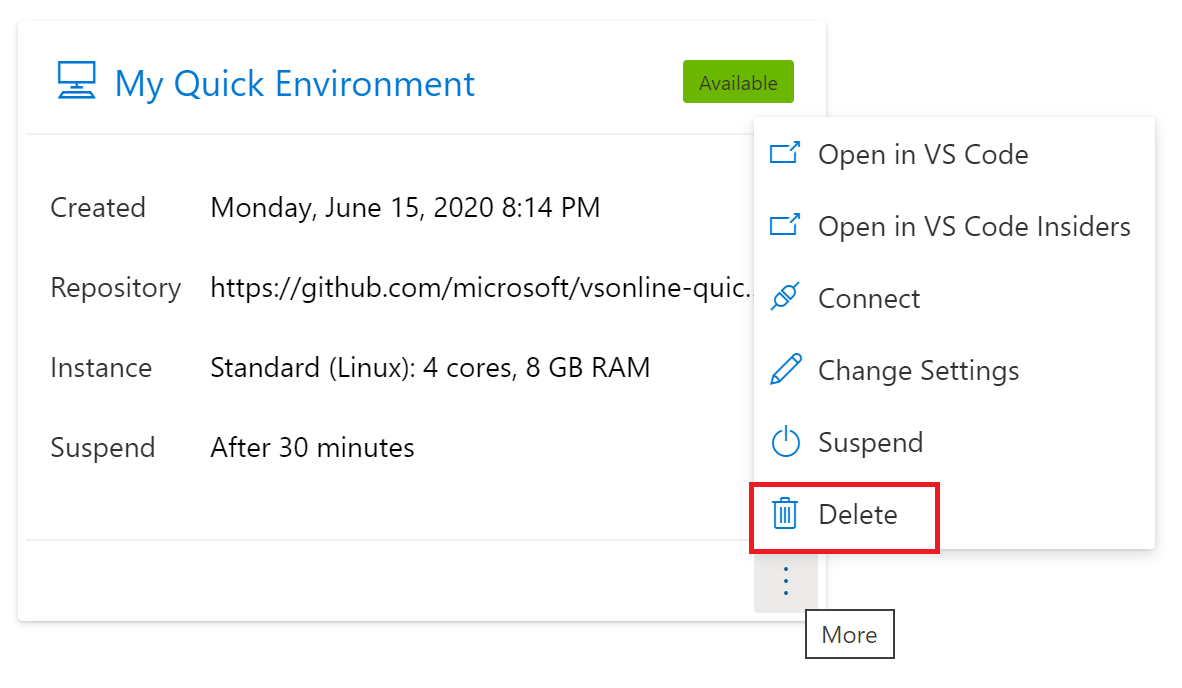
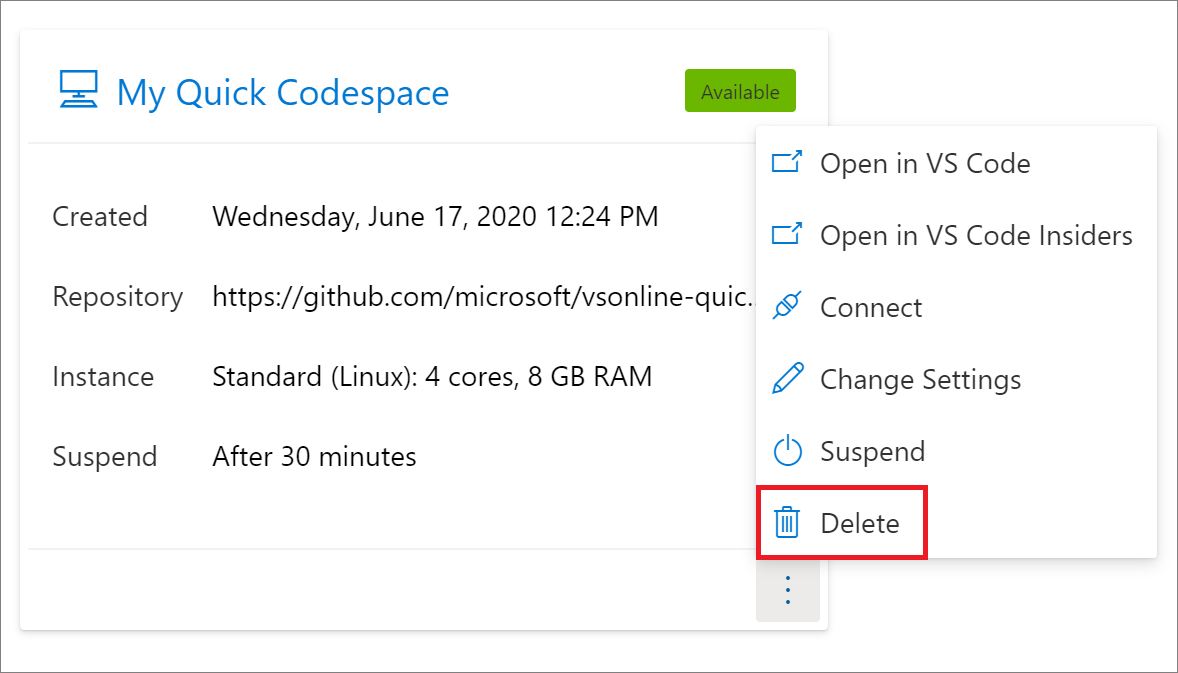
Update browser quickstart images

diff --git a/vscodespaces/quickstarts/browser.md b/vscodespaces/quickstarts/browser.md
@@ -45,6 +45,7 @@ And under **Advanced Options**, you can leave the automatically generated values
 
 - **Plan Name**: For example: "My-Codespaces-Plan"
 - **Resource Group**: Choose any existing Azure resource group you'd like. A new resource group will be created if an existing one isn't specified.
+- **Default Instance Type**: Choose the default Codespaces Instance Type, such as **Standard (Linux)**.
 
 Once a plan is created, it will be the selected plan in the **Plan Selector**.
 
@@ -57,7 +58,7 @@ To create a new cloud-hosted codespace, fill in the **Create Codespace** form. T
 
 Complete the form with the following values:
 
-- **Codespace Name**: My Quick Environment
+- **Codespace Name**: My Quick Codespace
 - **Git Repository**: microsoft/vsonline-quickstart
 - **Instance Type**: Standard (Linux)
 - **Suspend idle Codespace after...**: 30 minutes
@@ -69,7 +70,7 @@ Complete the form with the following values:
 
 Once you've filled in the form, select **Create**. This will begin creating your codespace and open the codespace in your browser when it is finished.
 
-If you go back to the management portal, there will be a new card with the name **My Quick Environment** and a status badge of **Available**.
+If you go back to the management portal, there will be a new card with the name **My Quick Codespace** and a status badge of **Available**.
 
 ## 4. Working in your codespace
 
@@ -79,11 +80,11 @@ Close the **Creation Log** and select the `README.md` editor tab. You can then p
 
 Follow the instructions in `README.md`, and return to this document when complete.
 
-You can return to the Codespaces management portal with your browser's back navigation. To reconnect to the codespace, select the **My Quick Environment** link in the codespace card.
+You can return to the Codespaces management portal with your browser's back navigation. To reconnect to the codespace, select the **My Quick Codespace** link in the codespace card.
 
 ## 5. Delete the codespace
 
-To delete the newly created codespace, open the **More** options menu in the lower right of the **My Quick Environment** card and select **Delete**.
+To delete the newly created codespace, open the **More** options menu in the lower right of the **My Quick Codespace** card and select **Delete**.
 
 ![Delete in Visual Studio Codespaces management portal](../images/delete-env-vso-01.png)
 
@@ -91,6 +92,6 @@ To delete the newly created codespace, open the **More** options menu in the low
 
 This article covered a typical end-to-end use of Codespaces. For more information, see:
 
-- [What are Codespaces?](../overview/what-is-vsonline.md)
+- [What is Visual Studio Codespaces?](../overview/what-is-vsonline.md)
 - [Codespaces with Visual Studio 2019 quickstart](../quickstarts/vs.md)
 - [Codespaces with VS Code quickstart](../quickstarts/vscode.md)
